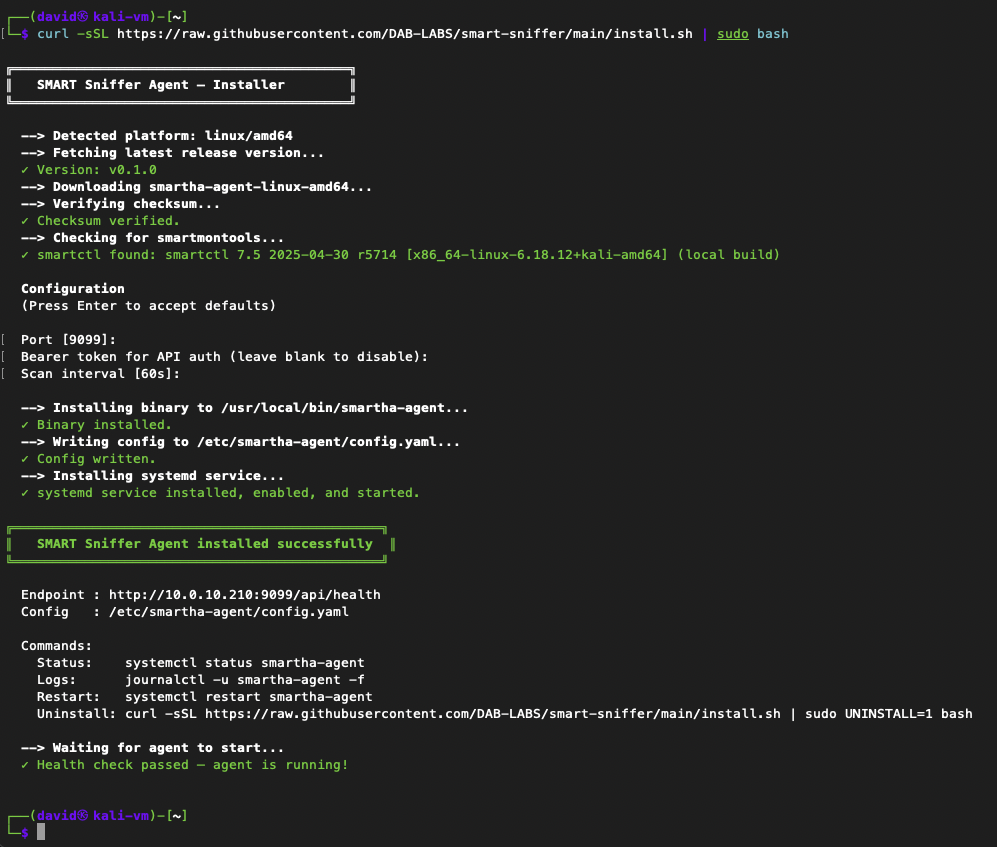
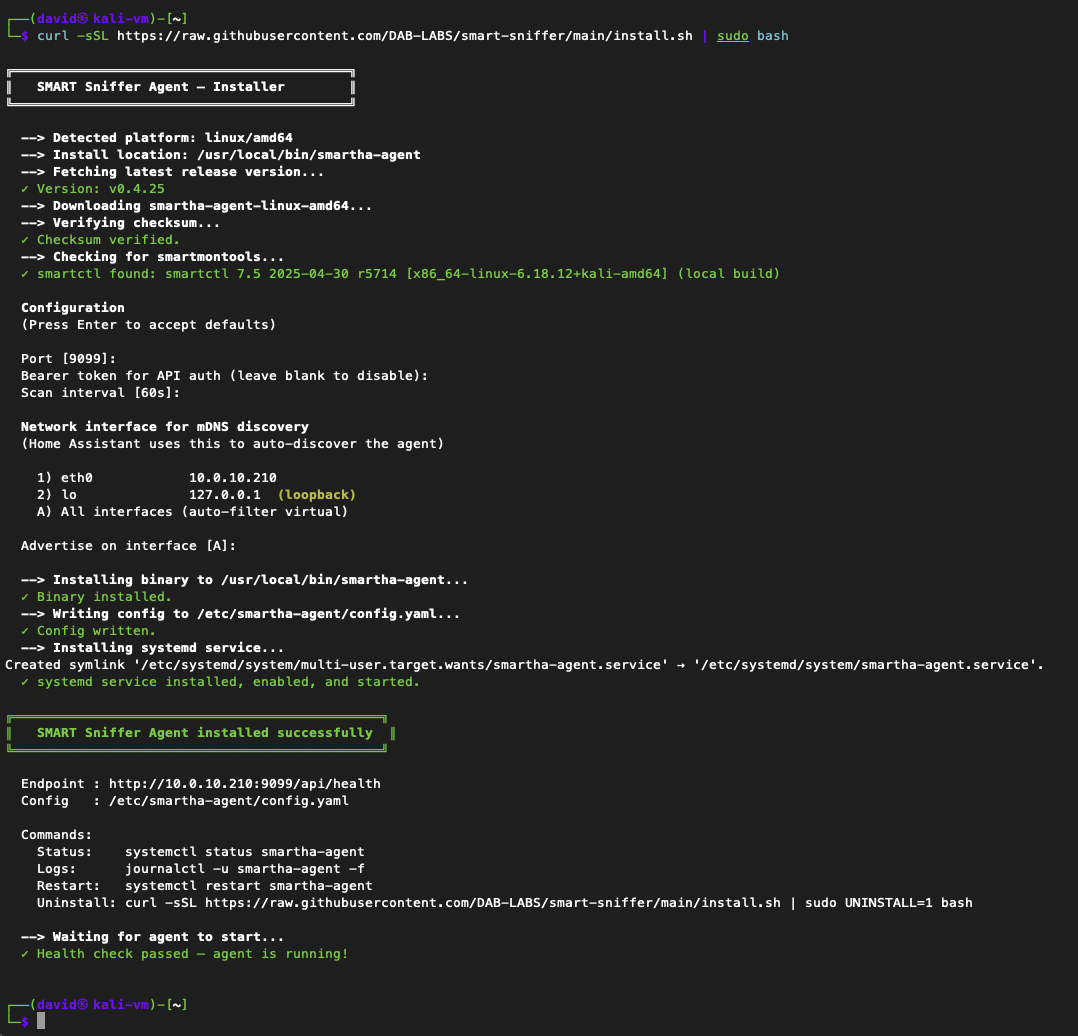
docs: add interface picker to README, update install screenshot, add version repair design doc
- README: document interface picker in install section, agent config, and auto-discovery
- README: add advertise_interface to example config, document post-install interface change
- README: link platform-install-paths and agent-version-repair docs in documentation table
- Updated install screenshot to show new interface picker flow
- Added docs/agent-version-repair.md: design doc for HA repair when agent is outdated

Changed region(s): [[0.0, 0.0, 0.9639, 0.9209], [0.653, 0.6139, 0.9639, 0.6446], [0.0, 0.9516, 0.1866, 1.0]]

diff --git a/docs/agent-version-repair.md b/docs/agent-version-repair.md
@@ -1,0 +1,201 @@
+# Agent Version Check & HA Repair
+
+When a SMART Sniffer integration update requires features or fixes from a newer agent, users need a clear signal inside Home Assistant telling them to upgrade — not a mysterious failure or silent degradation. This document describes the design for version-aware repair notifications.
+
+## The Problem
+
+The integration and agent are updated independently. A user might update the HA integration via HACS but forget to re-run the installer on their host machines. If the new integration relies on agent-side changes (new API fields, mDNS TXT records, interface filtering), things break silently or with confusing errors.
+
+## How Version Info Flows Today
+
+The agent already has version plumbing in place:
+
+| Channel | Field | Current Value | Read by Integration? |
+|---------|-------|---------------|---------------------|
+| mDNS TXT record | `version=0.1.0` | Set at build time via `-ldflags` | ❌ Not yet |
+| `/api/health` HTTP endpoint | `{"status":"ok"}` | No version field | ❌ N/A |
+| `/api/drives` HTTP endpoint | drive list | No version field | ❌ N/A |
+
+The mDNS TXT record has the version, but the integration ignores it. The HTTP API doesn't return version at all, so the integration can't check version during ongoing polling — only at initial discovery.
+
+## Design
+
+### Agent Changes
+
+**`/api/health` returns version** — one small addition to `handleHealth` in `main.go`:
+
+```go
+func handleHealth(w http.ResponseWriter, r *http.Request) {
+    w.Header().Set("Content-Type", "application/json")
+    fmt.Fprintf(w, `{"status":"ok","version":"%s"}`, version)
+}
+```
+
+This is the lightest possible change. The `version` variable is already set at build via `-ldflags`. The `/api/health` endpoint is already called during config flow validation, and adding it to the coordinator poll is trivial (one extra GET per cycle, tiny payload).
+
+### Integration Changes
+
+**1. New constants in `const.py`:**
+
+```python
+MIN_AGENT_VERSION = "0.1.0"       # bump when a release requires agent changes
+AGENT_RELEASES_URL = "https://github.com/DAB-LABS/smart-sniffer/releases"
+```
+
+`MIN_AGENT_VERSION` is the minimum agent version that the current integration release can work with correctly. When we ship an integration change that depends on agent-side work, we bump this constant.
+
+**2. Version comparison helper:**
+
+```python
+def _version_tuple(v: str) -> tuple[int, ...]:
+    """Parse '0.1.0' → (0, 1, 0) for comparison."""
+    return tuple(int(x) for x in v.split("."))
+
+def _agent_is_outdated(agent_version: str, min_version: str) -> bool:
+    """Return True if agent_version < min_version."""
+    try:
+        return _version_tuple(agent_version) < _version_tuple(min_version)
+    except (ValueError, AttributeError):
+        return False  # don't raise repair on unparseable versions
+```
+
+Strict semver libraries are overkill — we control both version strings and they'll always be `major.minor.patch`.
+
+**3. Coordinator checks version on each poll (`coordinator.py`):**
+
+After the existing drive fetch, add a `/api/health` call:
+
+```python
+from homeassistant.helpers.issue_registry import (
+    async_create_issue,
+    async_delete_issue,
+    IssueSeverity,
+)
+
+# Inside _async_update_data, after the drive fetch succeeds:
+async with session.get(
+    f"{self._base_url}/api/health",
+    headers=self._headers,
+    timeout=timeout,
+) as resp:
+    resp.raise_for_status()
+    health = await resp.json()
+
+agent_version = health.get("version", "")
+self._check_agent_version(agent_version)
+```
+
+The check method:
+
+```python
+def _check_agent_version(self, agent_version: str) -> None:
+    """Create or clear a repair issue based on agent version."""
+    issue_id = f"agent_outdated_{self.host}"
+
+    if not agent_version or _agent_is_outdated(agent_version, MIN_AGENT_VERSION):
+        async_create_issue(
+            self.hass,
+            domain=DOMAIN,
+            issue_id=issue_id,
+            is_fixable=False,
+            severity=IssueSeverity.WARNING,
+            translation_key="agent_outdated",
+            translation_placeholders={
+                "hostname": self._hostname or self.host,
+                "current_version": agent_version or "unknown",
+                "min_version": MIN_AGENT_VERSION,
+            },
+            learn_more_url=AGENT_RELEASES_URL,
+        )
+    else:
+        async_delete_issue(self.hass, DOMAIN, issue_id)
+```
+
+Key details:
+- `issue_id` is per-host so each agent gets its own repair card.
+- `is_fixable=False` — the user fixes this outside HA (re-running the installer on the host). No point offering a "fix" button.
+- `async_delete_issue` is idempotent and silently no-ops if the issue doesn't exist, so calling it every poll when the version is fine costs nothing.
+- If the agent is so old that `/api/health` doesn't return a `version` field, `agent_version` will be `""`, which triggers the repair. This covers truly ancient agents.
+
+**4. Config flow warns at discovery (`config_flow.py`):**
+
+In `async_step_zeroconf`, read the version from mDNS TXT (it's already broadcast, just not consumed):
+
+```python
+agent_version = properties.get("version", "")
+if agent_version and _agent_is_outdated(agent_version, MIN_AGENT_VERSION):
+    self._agent_outdated_warning = True
+    self._agent_version = agent_version
+```
+
+Then in the `zeroconf_confirm` step description, conditionally show a warning. This doesn't block setup — the user can still add the device — but they see a heads-up before they even finish the flow.
+
+**5. Translation strings (`strings.json`):**
+
+Add a top-level `"issues"` section (HA's standard location for repair strings):
+
+```json
+{
+  "config": { ... },
+  "options": { ... },
+  "issues": {
+    "agent_outdated": {
+      "title": "SMART Sniffer agent on {hostname} needs an update",
+      "description": "The agent is running version **{current_version}**, but this integration requires at least **{min_version}**.\n\nTo update, SSH into the host and run:\n```\ncurl -sSL https://raw.githubusercontent.com/DAB-LABS/smart-sniffer/main/install.sh | sudo bash\n```\nThe installer will detect the existing installation and upgrade in place. This repair will clear automatically once the agent reports a compatible version."
+    }
+  }
+}
+```
+
+The same structure goes into `translations/en.json`.
+
+## Auto-Resolution
+
+This is the best part — no user action needed inside HA. Once the user upgrades the agent on their host machine:
+
+1. Next poll cycle, coordinator calls `/api/health`.
+2. New version meets `MIN_AGENT_VERSION`.
+3. `async_delete_issue()` fires, repair card vanishes.
+
+No restarts, no reconfiguration, no "mark as resolved" button. It just goes away.
+
+## Edge Cases
+
+| Scenario | Behavior |
+|----------|----------|
+| Agent so old it has no `version` in `/api/health` | `health.get("version", "")` returns `""` → treated as outdated → repair raised |
+| Agent has `version` in mDNS but not HTTP (pre-this-change) | mDNS warning shows at discovery; coordinator can't check ongoing → repair raised (empty version) |
+| Multiple agents, one outdated | Each gets its own repair card (`issue_id` includes host) |
+| Agent temporarily unreachable | Coordinator raises `UpdateFailed` (existing behavior), no version check runs, no spurious repair |
+| Unparseable version string (e.g., `"dev"`) | `_agent_is_outdated` returns `False` → no repair (benefit of the doubt for dev builds) |
+| Agent newer than integration expects | Totally fine — we only check `<`, not exact match. Forward compatible. |
+
+## Severity Levels (Future)
+
+Starting with a single `WARNING` severity is enough. If we later need to distinguish "outdated but functional" from "so old it's broken," we can add a second constant:
+
+```python
+MIN_AGENT_VERSION = "0.2.0"          # soft minimum — warning
+MIN_AGENT_VERSION_HARD = "0.1.0"     # hard minimum — error, blocks setup
+```
+
+The hard minimum would use `IssueSeverity.ERROR` and could additionally prevent the config flow from completing for truly incompatible agents. Not needed today — leaving this as a note for future-us.
+
+## Files to Change
+
+| File | Change |
+|------|--------|
+| `agent/main.go` | Add `"version"` field to `handleHealth` JSON response |
+| `custom_components/smart_sniffer/const.py` | Add `MIN_AGENT_VERSION`, `AGENT_RELEASES_URL` |
+| `custom_components/smart_sniffer/coordinator.py` | Import issue_registry, add `/api/health` call + `_check_agent_version()` |
+| `custom_components/smart_sniffer/config_flow.py` | Read `version` from mDNS TXT, warn if outdated in zeroconf_confirm |
+| `custom_components/smart_sniffer/strings.json` | Add `issues.agent_outdated` title + description |
+| `custom_components/smart_sniffer/translations/en.json` | Same |
+| `CHANGELOG.md` | Document the feature |
+
+## Implementation Notes
+
+- The `/api/health` call adds negligible overhead — it's a ~50 byte JSON response with no disk I/O.
+- The version check runs every poll cycle, but `async_create_issue` and `async_delete_issue` are both idempotent and cheap — they're in-memory registry operations.
+- The `learn_more_url` on the repair card links directly to GitHub Releases so the user can see what changed.
+- The curl one-liner installer is idempotent — it detects existing installs and upgrades in place, preserving config.yaml.

diff --git a/README.md b/README.md
@@ -68,7 +68,9 @@ VERSION=0.1.0 curl -sSL https://raw.githubusercontent.com/DAB-LABS/smart-sniffer
 
 </details>
 
-The installer detects your OS and architecture, downloads the correct binary from [GitHub Releases](https://github.com/DAB-LABS/smart-sniffer/releases), verifies the SHA256 checksum, installs `smartmontools` if missing, prompts for configuration, and sets up a system service.
+The installer detects your OS and architecture, downloads the correct binary from [GitHub Releases](https://github.com/DAB-LABS/smart-sniffer/releases), verifies the SHA256 checksum, installs `smartmontools` if missing, prompts for configuration (port, token, mDNS interface), and sets up a system service.
+
+On machines with multiple network interfaces (Docker, ZeroTier, Tailscale, etc.), the installer presents an interface picker so mDNS discovery advertises on the right network. Pick your LAN interface — not "All interfaces" — if you run VPNs or containers, otherwise HA may discover the agent at an unreachable IP.
 
 <p align="center">
   <img src="images/agent_install_uninstall_screenshot.png" alt="Agent install on Linux" width="520">
@@ -238,13 +240,18 @@ Create `config.yaml` in the working directory or `/etc/smartha-agent/`:
 port: 9099
 token: "your-secret-token"    # optional — omit to disable auth
 scan_interval: 60s
+advertise_interface: eth0      # optional — restrict mDNS to this interface
 ```
 
-All options can also be set via CLI flags: `--port`, `--token`, `--scan-interval`.
+All options can also be set via CLI flags: `--port`, `--token`, `--scan-interval`, `--interface`, `--config`.
+
+**Network interface:** The `advertise_interface` setting restricts mDNS to a single interface. The installer sets this during setup if you pick a specific interface. When not set, the agent auto-filters known virtual interfaces (Docker, ZeroTier, Tailscale, WireGuard, etc.) and advertises on all remaining physical interfaces. To change the interface after install, edit `config.yaml` and restart the service — no reinstall needed.
 
 **Authentication:** When a `token` is set, every request to the agent must include an `Authorization: Bearer <token>` header — requests without it receive a `401 Unauthorized` response. When adding the agent in Home Assistant, enter the same token in the integration's config flow. If no token is set, the agent serves data openly without auth.
 
 **Auto-discovery:** The agent advertises itself on the local network via mDNS (Zeroconf) by default. HA automatically detects running agents and prompts you to set them up — no manual IP entry needed. Disable with `mdns: false` in config or `--no-mdns` flag. Note: mDNS is link-local, so agents on different VLANs won't be discovered without an mDNS reflector.
+
+**Multi-homed hosts:** Machines running Docker, VPNs (ZeroTier, Tailscale, WireGuard), or virtual bridges have multiple network interfaces. If the agent advertises on a VPN or container interface, HA may discover it at an unreachable IP and fail to connect. The installer's interface picker and the `advertise_interface` config option solve this — see [Platform Install Paths](docs/platform-install-paths.md) for details.
 
 **Service management:**
 
@@ -292,6 +299,8 @@ Binaries output to `agent/build/`.
 | [Early Warning Attributes](docs/early-warning-attributes.md) | Which SMART attributes predict failure and why |
 | [Attribute Name Variants](docs/smart-attribute-name-variants.md) | Manufacturer-specific `smartctl` name mapping research |
 | [Mock Agent](docs/mock-agent.md) | Testing tool — fake agent with controllable drives |
+| [Platform Install Paths](docs/platform-install-paths.md) | Install locations, immutable rootfs support, network interface filtering |
+| [Agent Version Repair](docs/agent-version-repair.md) | Design doc for agent version checking and HA repair notifications |
 | [Build Journal](docs/build-journal.md) | Design decisions, iteration history, known issues |
 
 ## Roadmap
